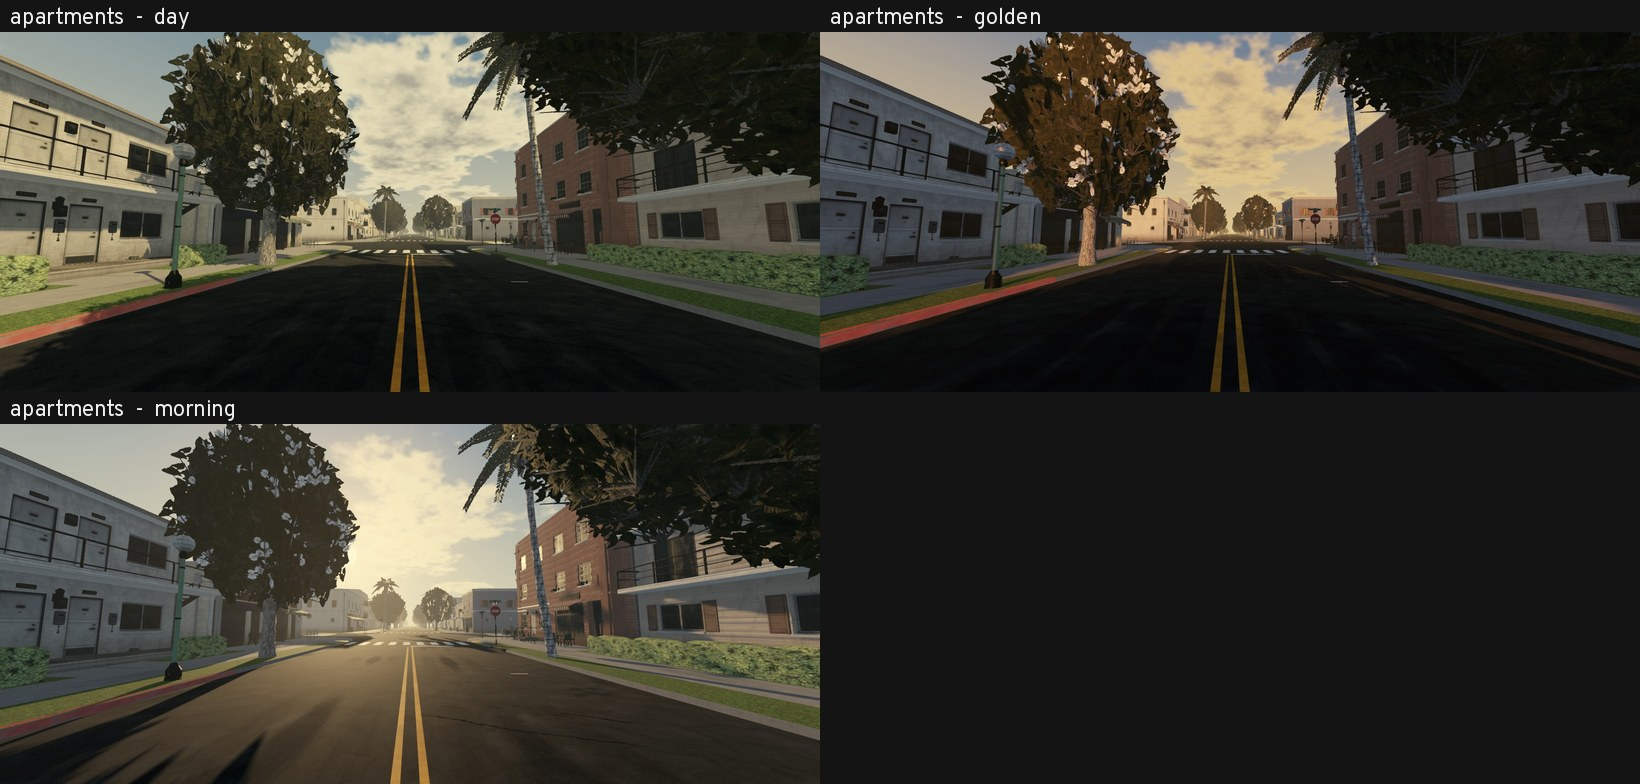
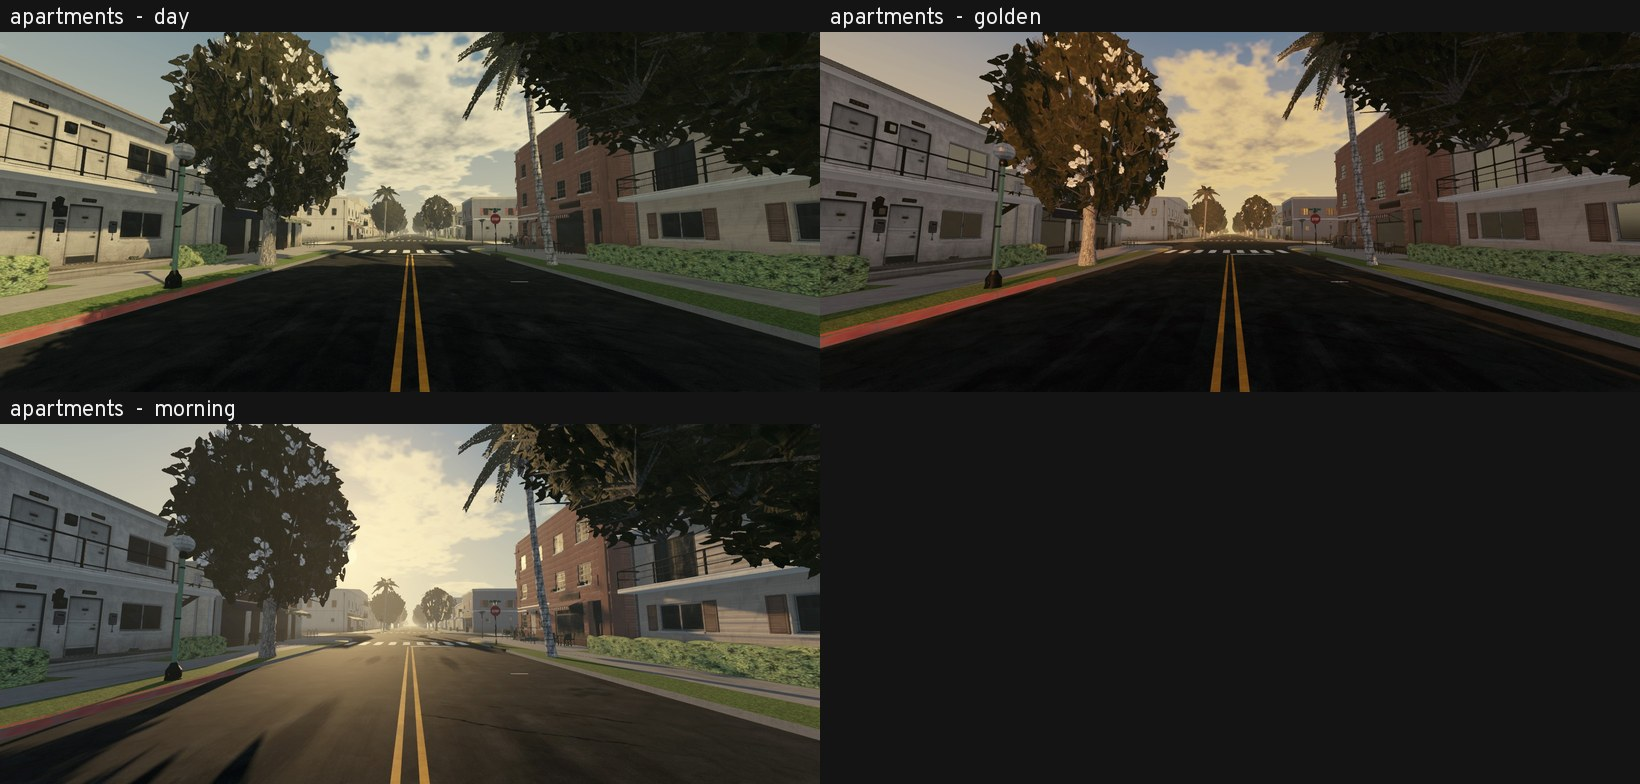
Look: golden hour in the GTA palette with shadows; numbers
Claude-Session: https://claude.ai/code/session_01AeGHhe9QjUz9QgYLg3LSVH

Changed region(s): [[0.4976, 0.0306, 0.8396, 0.3367], [0.7774, 0.1531, 1.0, 0.3367], [0.7152, 0.4286, 0.7774, 0.4898]]

diff --git a/docs/LOOK_SKY.md b/docs/LOOK_SKY.md
@@ -277,3 +277,13 @@ on the cloud's GPU, 83 s; no `--nofarground` needed).
 - FOUND: with `--shadowtune=1` (2 splits) the cloud's software GPU draws the near trees properly WITH sun shadows on
   (`shadow/pair_apartments_golden.jpg`); with the engine's 4 splits they came out black. The "trees black with
   shadows" cloud flaw is tied to the 4-split mode. Cloud pictures can have shadows from now on.
+
+### In the GTA palette, with sun shadows (cloud, 4 views)
+| preset | bright | contrast | sat % | sky sat % |
+|---|---|---|---|---|
+| day (clouds readable from the street) | 89 | 169 | 25 | 20 |
+| golden (GTA table, shade 0.92 warm-grey) | 71 | 171 | 26 | 25 |
+| morning (GTA table) | 91 | 187 | 23 | 18 |
+With real shadows the low golden sun leaves most streets in shade: the warm light falls on tree tops and the walls
+that face west (`gta/sheet_*.jpg`); the shade was lifted (0.75 -> 0.92) so the street does not sink. Darker than the
+day is right for a low sun; judge it on the phone.
